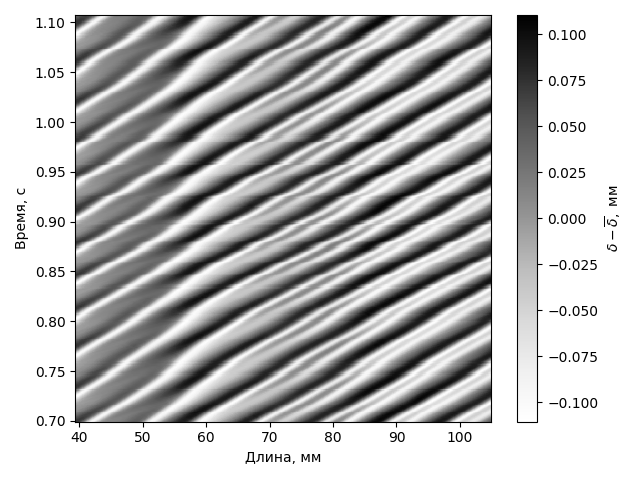
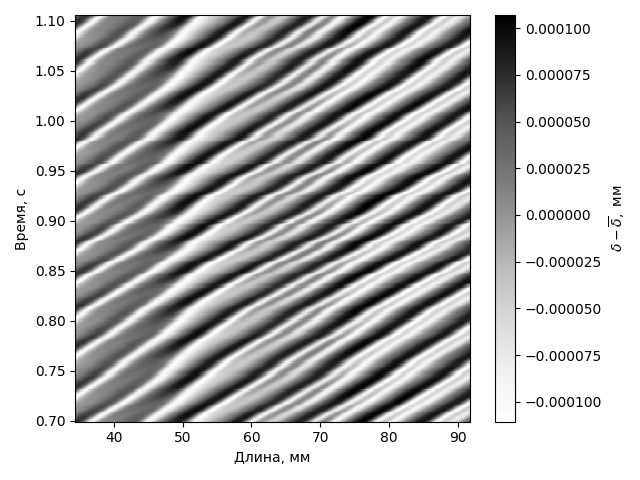
v6 Kapitsa

diff --git a/processing_part4.py b/processing_part4.py
@@ -39,7 +39,7 @@ import pandas as pd
 
 nx_max = 1500
 ny_max = 60
-v = 5
+v = 6
 dt_step = 0.001
 x_frac_start = 0.3 
 x_frac_end = 1.0
